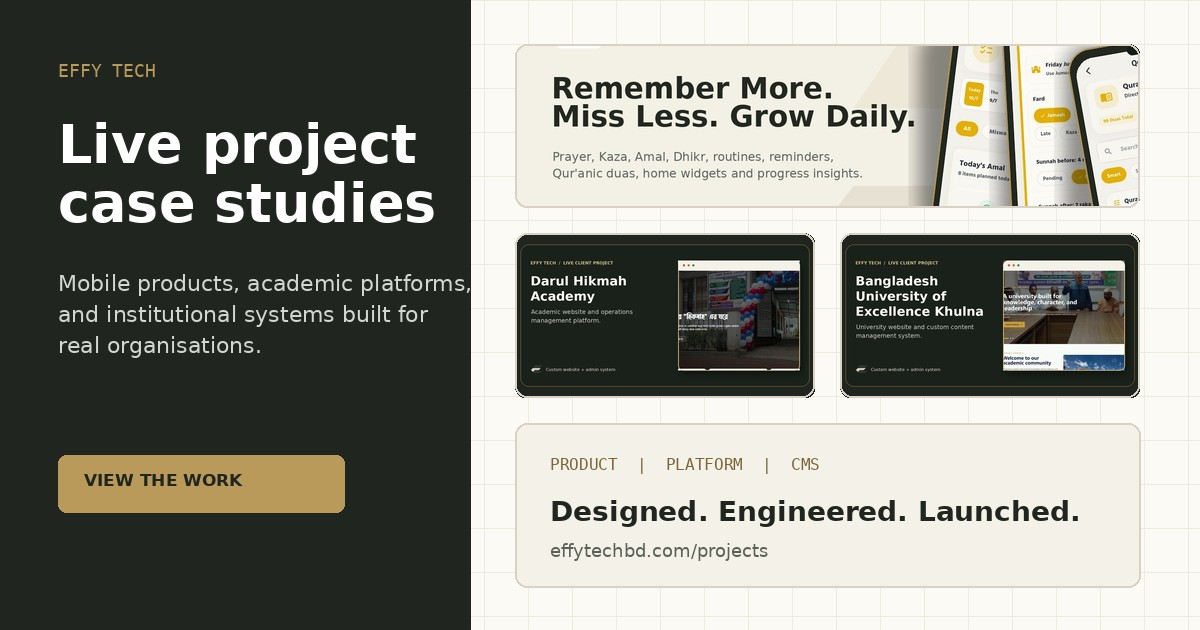
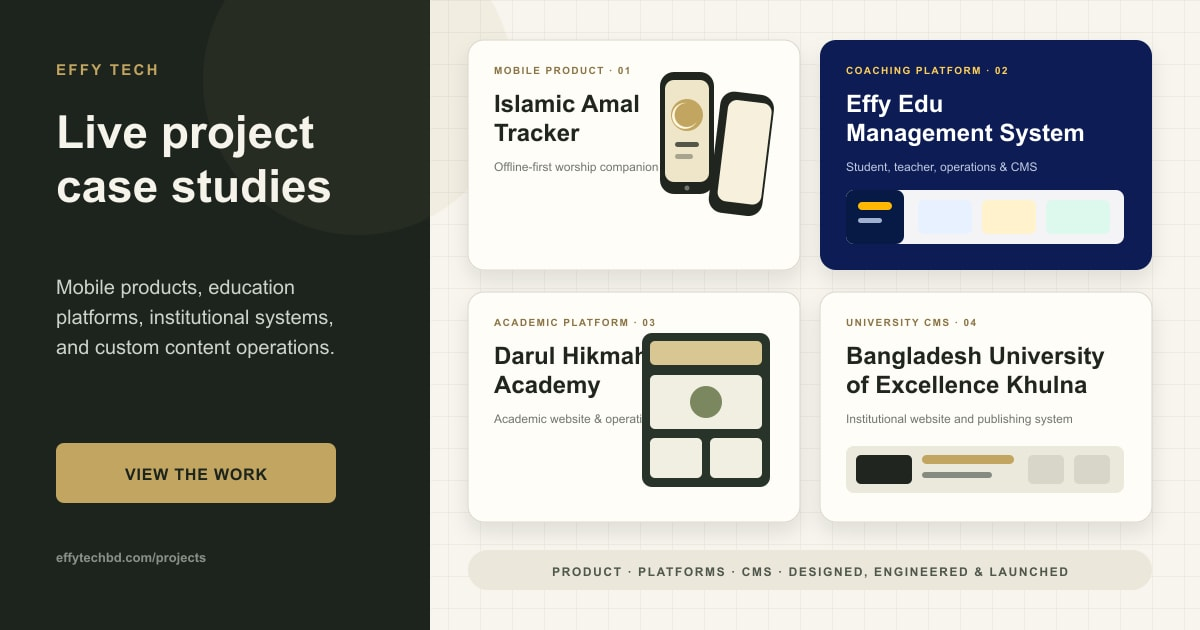
feat(portfolio): feature Effy Edu across project discovery

diff --git a/src/components/sections/HomeExperience.jsx b/src/components/sections/HomeExperience.jsx
@@ -118,6 +118,16 @@ const clientProof = [
     href: "/projects/IAM",
   },
   {
+    name: "Effy Edu Management System",
+    proofType: "Client operations platform",
+    status: "Live production platform",
+    audience: "Coaching management",
+    tech: "Next.js · TypeScript · Role-based portals",
+    note: "A connected public website, student portal, teacher/admin console, academic workflow system, reporting layer, and website CMS.",
+    image: "/images/effy-edu-management-system/case-study/hero.webp",
+    href: "/effy_edu_management_system",
+  },
+  {
     name: "Darul Hikmah Academy",
     proofType: "Client platform",
     status: "Production platform",
@@ -435,8 +445,8 @@ export default function HomeExperience() {
               <span><CheckCircle2 size={15} /> Clear product ownership</span>
               <span><ShieldCheck size={15} /> Production-minded engineering</span>
             </div>
-            <div className="client-proof-count" aria-label="Three selected systems">
-              <strong>03</strong>
+            <div className="client-proof-count" aria-label={`${clientProof.length} selected systems`}>
+              <strong>{String(clientProof.length).padStart(2, "0")}</strong>
               <span>Selected systems<br />in active use</span>
             </div>
           </motion.div>
@@ -561,17 +571,23 @@ export default function HomeExperience() {
           </motion.article>
 
           <div className="secondary-projects editorial-projects">
+            <motion.article className="project-feature project-feature-eems" {...fade}>
+              <BrowserMockup className="project-screen project-browser" label="Effy Edu Management System preview" title="shifatstales.com">
+                <Image src="/images/effy-edu-management-system/case-study/hero.webp" alt="Effy Edu coaching management system" fill sizes="(max-width: 768px) 100vw, 60vw" />
+              </BrowserMockup>
+              <div className="project-copy"><span>COACHING MANAGEMENT · 02</span><h3>Effy Edu Management System</h3><p><b>Problem:</b> Public content, student services, and recurring coaching operations were split across disconnected processes.</p><p><b>Solution:</b> One role-based platform with a public website, student portal, teacher/admin console, academic workflows, reporting, payments, and CMS.</p><ul><li>Status: Live client platform</li><li>Stack: Next.js · TypeScript</li><li>Outcome: Connected education operations</li></ul><Link href="/effy_edu_management_system">Open case study <ArrowRight size={15}/></Link></div>
+            </motion.article>
             <motion.article className="project-feature project-feature-dha" {...fade}>
               <BrowserMockup className="project-screen project-browser" label="Darul Hikmah Academy website preview" title="darulhikmah.academy">
                 <Image src="/images/dha/case-study/hero.webp" alt="Darul Hikmah Academy website" fill sizes="(max-width: 768px) 100vw, 50vw" />
               </BrowserMockup>
-              <div className="project-copy"><span>EDUCATION PLATFORM · 02</span><h3>Darul Hikmah Academy</h3><p><b>Problem:</b> Academic information and public content needed one structured, maintainable platform.</p><p><b>Solution:</b> A bilingual website with dynamic administration, course discovery, materials, and responsive public access.</p><ul><li>Status: Production platform</li><li>Stack: Next.js · Supabase</li><li>Outcome: Centralized content management</li></ul><Link href="/projects/DHA">Open case study <ArrowRight size={15}/></Link></div>
+              <div className="project-copy"><span>EDUCATION PLATFORM · 03</span><h3>Darul Hikmah Academy</h3><p><b>Problem:</b> Academic information and public content needed one structured, maintainable platform.</p><p><b>Solution:</b> A bilingual website with dynamic administration, course discovery, materials, and responsive public access.</p><ul><li>Status: Production platform</li><li>Stack: Next.js · Supabase</li><li>Outcome: Centralized content management</li></ul><Link href="/projects/DHA">Open case study <ArrowRight size={15}/></Link></div>
             </motion.article>
             <motion.article className="project-feature project-feature-buek" {...fade}>
               <BrowserMockup className="project-screen project-browser" label="BUEK university website preview" title="buek.edu.bd">
                 <Image src="/images/buek/case-study/hero.webp" alt="BUEK university website" fill sizes="(max-width: 768px) 100vw, 50vw" />
               </BrowserMockup>
-              <div className="project-copy"><span>INSTITUTIONAL PLATFORM · 03</span><h3>BUEK</h3><p><b>Problem:</b> Notices, events, media, and academic information needed a reliable publishing workflow.</p><p><b>Solution:</b> A structured university platform with admin-controlled content and fast public access.</p><ul><li>Status: Production platform</li><li>Stack: Next.js · Admin CMS</li><li>Outcome: Organized institutional publishing</li></ul><Link href="/projects/BUEK">Open case study <ArrowRight size={15}/></Link></div>
+              <div className="project-copy"><span>INSTITUTIONAL PLATFORM · 04</span><h3>BUEK</h3><p><b>Problem:</b> Notices, events, media, and academic information needed a reliable publishing workflow.</p><p><b>Solution:</b> A structured university platform with admin-controlled content and fast public access.</p><ul><li>Status: Production platform</li><li>Stack: Next.js · Admin CMS</li><li>Outcome: Organized institutional publishing</li></ul><Link href="/projects/BUEK">Open case study <ArrowRight size={15}/></Link></div>
             </motion.article>
           </div>
         </div>

diff --git a/src/app/(website)/projects/page.js b/src/app/(website)/projects/page.js
@@ -9,7 +9,7 @@ import "@/styles/projects-spatial.css";
 
 export const metadata = {
   title: "Live Project Case Studies | Effy Tech",
-  description: "Explore live Effy Tech products and client platforms: a mobile product, an academic operations platform, and a university website with custom CMS.",
+  description: "Explore live Effy Tech products and client platforms across mobile, coaching management, academic operations, institutional websites, and custom content systems.",
   alternates: { canonical: "/projects" },
   openGraph: { title: "Live Project Case Studies | Effy Tech", description: "Real products and operational systems designed, engineered, launched, and supported by Effy Tech.", url: "/projects", images: [{ url: "/images/projects/og-1200x630.jpg", width: 1200, height: 630, alt: "Effy Tech live project case studies" }] },
   twitter: { card: "summary_large_image", title: "Live Project Case Studies | Effy Tech", description: "Real products and operational systems designed, engineered, launched, and supported by Effy Tech.", images: ["/images/projects/og-1200x630.jpg"] },
@@ -24,6 +24,7 @@ const capabilities = [
 
 const projectPreviewTitles = {
   IAM: "play.google.com · Islamic Amal Tracker",
+  EEMS: "shifatstales.com · Coaching management",
   DHA: "dhakhl.com · Darul Hikmah Academy",
   BUEK: "buekbd.com · University platform",
 };
@@ -32,7 +33,10 @@ function ProjectsHeroVisual() {
   return (
     <MotionBoundary className="projects-hero-motion">
       <TiltSurface className="projects-hero-tilt" maxTilt={2.8} perspective={1300}>
-        <div className="projects-spatial-stage" aria-label="Three live Effy Tech product and platform previews">
+        <div
+          className="projects-spatial-stage"
+          aria-label={`${sortedProjects.length} live Effy Tech product and platform previews`}
+        >
           <div className="projects-stage-grid" aria-hidden="true" />
           {sortedProjects.map((project, index) => (
             <div className={`projects-hero-layer projects-hero-layer-${index + 1}`} key={project.slug}>
@@ -50,7 +54,7 @@ function ProjectsHeroVisual() {
               </BrowserMockup>
             </div>
           ))}
-          <div className="projects-stage-core"><span>03</span><div><small>LIVE SYSTEMS</small><strong>Product · Platform · CMS</strong></div></div>
+          <div className="projects-stage-core"><span>{String(sortedProjects.length).padStart(2, "0")}</span><div><small>LIVE SYSTEMS</small><strong>Product · Platforms · CMS</strong></div></div>
         </div>
       </TiltSurface>
     </MotionBoundary>

diff --git a/src/styles/projects-spatial.css b/src/styles/projects-spatial.css
@@ -24,7 +24,7 @@
 .effy-projects-index .projects-spatial-stage {
   position: relative;
   isolation: isolate;
-  min-height: 500px;
+  min-height: 620px;
   overflow: hidden;
   border: 1px solid rgb(32 38 31 / 14%);
   border-radius: 8px;
@@ -98,6 +98,13 @@
   top: 273px;
   left: 12%;
   transform: translateZ(4px) rotate(-1.5deg);
+}
+
+.effy-projects-index .projects-hero-layer-4 {
+  z-index: 1;
+  top: 382px;
+  right: 8%;
+  transform: translateZ(-8px) rotate(2.5deg);
 }
 
 .effy-projects-index .projects-stage-core {
@@ -281,7 +288,7 @@
   }
 
   .effy-projects-index .projects-spatial-stage {
-    min-height: 540px;
+    min-height: 620px;
   }
 }
 
@@ -292,7 +299,7 @@
   }
 
   .effy-projects-index .projects-spatial-stage {
-    min-height: 460px;
+    min-height: 540px;
   }
 
   .effy-projects-index .projects-hero-layer {
@@ -305,13 +312,18 @@
   }
 
   .effy-projects-index .projects-hero-layer-2 {
-    top: 143px;
+    top: 139px;
     right: 4%;
   }
 
   .effy-projects-index .projects-hero-layer-3 {
-    top: 244px;
+    top: 240px;
     left: 7%;
+  }
+
+  .effy-projects-index .projects-hero-layer-4 {
+    top: 341px;
+    right: 5%;
   }
 
   .effy-projects-index .projects-stage-core {
@@ -323,7 +335,7 @@
 
 @media (max-width: 480px) {
   .effy-projects-index .projects-spatial-stage {
-    min-height: 390px;
+    min-height: 440px;
   }
 
   .effy-projects-index .projects-hero-layer .effy-browser-bar {
@@ -335,11 +347,15 @@
   }
 
   .effy-projects-index .projects-hero-layer-2 {
-    top: 117px;
+    top: 108px;
   }
 
   .effy-projects-index .projects-hero-layer-3 {
-    top: 199px;
+    top: 182px;
+  }
+
+  .effy-projects-index .projects-hero-layer-4 {
+    top: 256px;
   }
 
   .effy-projects-index .projects-stage-core {

diff --git a/src/data/projects.js b/src/data/projects.js
@@ -22,6 +22,27 @@ const projects = [
     order: 0,
   },
   {
+    id: "14",
+    title: "Effy Edu Management System",
+    shortTitle: "Effy Edu Management System",
+    slug: "EEMS",
+    eyebrow: "Coaching Operations Platform",
+    status: "Live Client Project",
+    description: "A role-based coaching management platform connecting a public website, student self-service, teacher administration, academic delivery, reporting, payments, and content management.",
+    outcome: "The client received one live system for public communication and recurring coaching operations, with focused experiences for students and staff.",
+    category: "Web Platform",
+    audience: "Students, teachers, and administrators",
+    tags: ["Next.js", "TypeScript", "Role-based Portals", "Custom CMS"],
+    deliverables: ["Public coaching website and CMS", "Student and teacher/admin portals", "Academic, exam, payment, and reporting workflows"],
+    thumbnail: "/images/effy-edu-management-system/case-study/hero.webp",
+    caseStudyUrl: "/effy_edu_management_system",
+    liveUrl: "https://www.shifatstales.com",
+    liveLabel: "Visit Live Client Site",
+    clientName: "Shifat's Tales Academic & Admission Care",
+    featured: true,
+    order: 1,
+  },
+  {
     id: "12",
     title: "Darul Hikmah Academy",
     shortTitle: "Darul Hikmah Academy",
@@ -40,7 +61,7 @@ const projects = [
     liveLabel: "Visit Live Site",
     clientName: "Darul Hikmah Academy",
     featured: true,
-    order: 1,
+    order: 2,
   },
   {
     id: "13",
@@ -61,7 +82,7 @@ const projects = [
     liveLabel: "Visit Live Site",
     clientName: "Bangladesh University of Excellence Khulna",
     featured: true,
-    order: 2,
+    order: 3,
   },
 ];
 export default projects;

diff --git a/src/app/sitemap.js b/src/app/sitemap.js
@@ -6,6 +6,7 @@ const routes = [
   { path: "/quickservices", priority: 0.8, changeFrequency: "monthly" },
   { path: "/projects", priority: 0.9, changeFrequency: "monthly" },
   { path: "/projects/IAM", priority: 0.9, changeFrequency: "weekly" },
+  { path: "/effy_edu_management_system", priority: 0.9, changeFrequency: "monthly" },
   { path: "/projects/DHA", priority: 0.8, changeFrequency: "monthly" },
   { path: "/projects/BUEK", priority: 0.8, changeFrequency: "monthly" },
   { path: "/salek", priority: 0.6, changeFrequency: "monthly" },
@@ -14,7 +15,7 @@ const routes = [
 ];
 
 export default function sitemap() {
-  const lastModified = new Date("2026-07-17T00:00:00+06:00");
+  const lastModified = new Date("2026-07-27T00:00:00+06:00");
 
   return routes.map(({ path, priority, changeFrequency }) => ({
     url: `${siteConfig.url}${path}`,

diff --git a/src/components/layout/Navbar.jsx b/src/components/layout/Navbar.jsx
@@ -10,7 +10,12 @@ import projects from "@/data/projects";
 import siteConfig from "@/theme/siteConfig";
 import useModalFocus from "@/hooks/useModalFocus";
 
-const CUSTOM_NAVBAR_ROUTES = ["/projects/IAM", "/projects/DHA", "/projects/BUEK"];
+const CUSTOM_NAVBAR_ROUTES = [
+  "/projects/IAM",
+  "/projects/DHA",
+  "/projects/BUEK",
+  "/effy_edu_management_system",
+];
 
 const searchPages = [
   { label: "Homepage", href: "/", type: "page", description: "Effy Tech company homepage", keywords: ["home", "effy tech"] },

diff --git a/src/components/layout/CommandPalette.jsx b/src/components/layout/CommandPalette.jsx
@@ -35,7 +35,7 @@ function buildResults(query, projects, services, pages) {
     title: project.title,
     description: project.description,
     meta: [project.category, ...(project.tags || []).slice(0, 3)].filter(Boolean).join(" · "),
-    href: `/projects/${project.slug}`,
+    href: project.caseStudyUrl || `/projects/${project.slug}`,
     type: "project",
     keywords: [project.slug, project.clientName, ...(project.tags || [])].filter(Boolean),
     score:

diff --git a/src/app/globals.css b/src/app/globals.css
@@ -5125,6 +5125,9 @@ h4 {
 .effy-home .secondary-projects {
   gap: 22px;
 }
+.effy-home .project-feature-eems {
+  grid-column: 1 / -1;
+}
 .effy-home .project-feature {
   min-height: 470px;
 }
@@ -6078,7 +6081,7 @@ h4 {
 
 .effy-home .client-logo-wall {
   display: grid;
-  grid-template-columns: repeat(3, minmax(0, 1fr));
+  grid-template-columns: repeat(2, minmax(0, 1fr));
   gap: 14px;
   border: 0;
   background: transparent;

diff --git a/src/styles/home-client-proof-3d.css b/src/styles/home-client-proof-3d.css
@@ -430,7 +430,11 @@
   }
 
   .effy-home .client-proof-entry-3 {
-    margin-top: 52px;
+    margin-top: 0;
+  }
+
+  .effy-home .client-proof-entry-4 {
+    margin-top: 26px;
   }
 }
 
